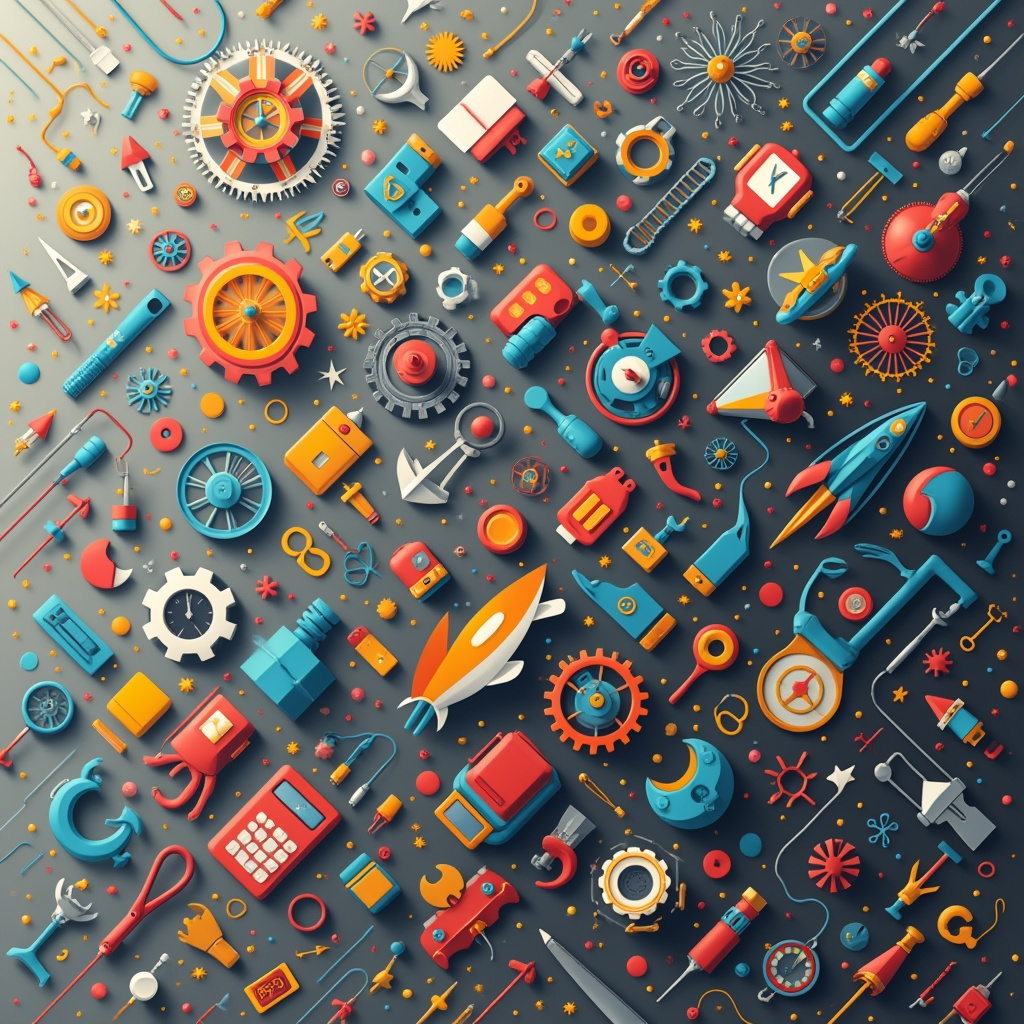
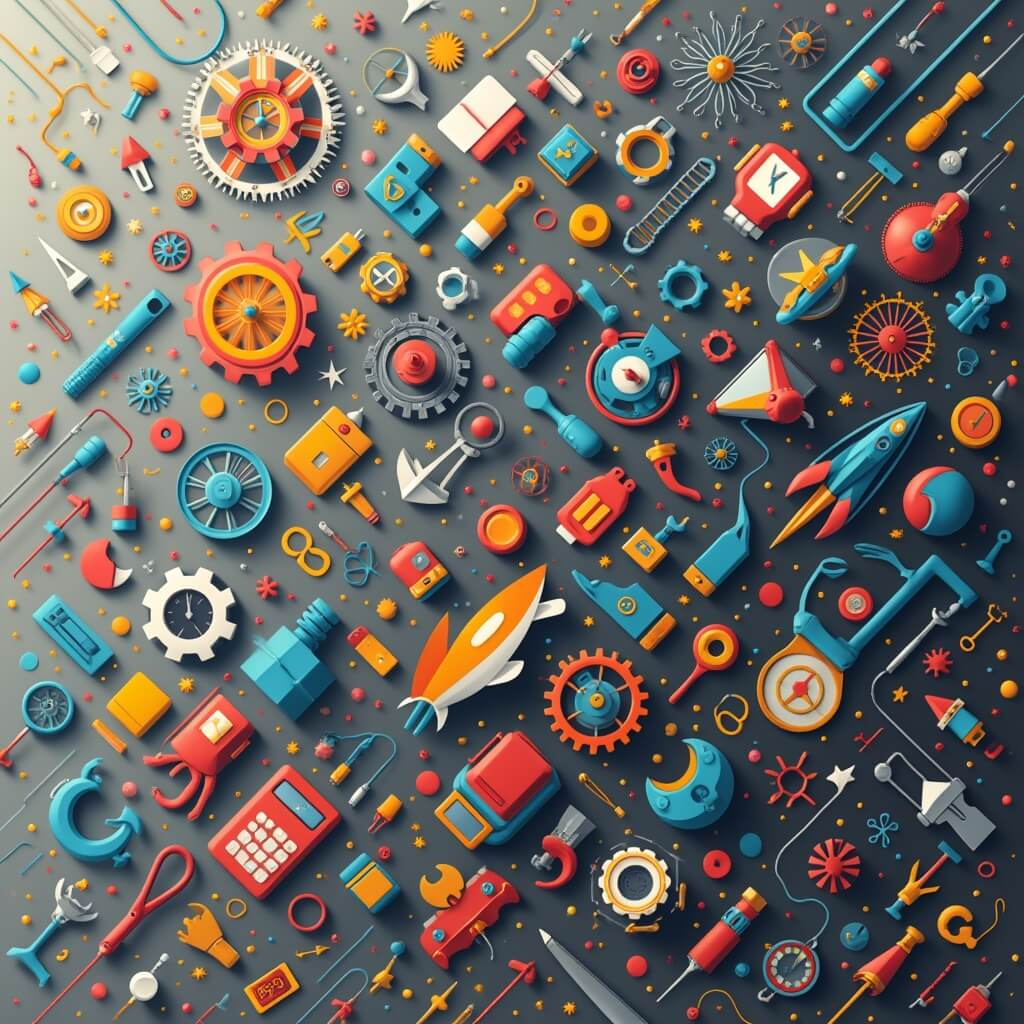
Ajustes images

diff --git a/success-cases.html b/success-cases.html
@@ -206,7 +206,7 @@
 
                     <div class="row featurette py-4 align-items-center mb-3">
                         <div class="col-md-5 order-md-2 text-center">
-                            <img src="./img/header-files.png" alt="Blockchain solutions for secure data transactions by CodeGenia" class="img-fluid">
+                            <img src="./img/header-files.jpg" alt="Blockchain solutions for secure data transactions by CodeGenia" class="img-fluid">
                         </div>
                         <div class="col-md-7 order-md-1">
                             <h3 class="featurette-heading fw-normal lh-1 my-3">Artificial Intelligence files transformation</h3>

diff --git a/es/casos-de-exito.html b/es/casos-de-exito.html
@@ -209,7 +209,7 @@
 
                     <div class="row featurette py-4 align-items-center mb-3">
                         <div class="col-md-5 order-md-2 text-center">
-                            <img src="./../img/header-files.png" alt="Blockchain solutions for secure data transactions by CodeGenia" class="img-fluid">
+                            <img src="./../img/header-files.jpg" alt="Blockchain solutions for secure data transactions by CodeGenia" class="img-fluid">
                         </div>
                         <div class="col-md-7 order-md-1">
                             <h3 class="featurette-heading fw-normal lh-1 my-3">

diff --git a/es/transformacion-ficheros-inteligencia-artificial.html b/es/transformacion-ficheros-inteligencia-artificial.html
@@ -123,7 +123,7 @@
         </div>
     </nav>
 
-    <div style="background: url('./../img/header-files.png') no-repeat center center fixed; 
+    <div style="background: url('./../img/header-files.jpg') no-repeat center center fixed; 
         width: 100vw; height: 100vh; object-fit: cover; background-size: cover; position: fixed; left: 0;
         right: 0; top: 0; bottom: 0; z-index: -1;"></div>
 

diff --git a/artificial-intelligence-files-transformation.html b/artificial-intelligence-files-transformation.html
@@ -123,7 +123,7 @@
         </div>
     </nav>
 
-    <div style="background: url('./img/header-files.png') no-repeat center center fixed; 
+    <div style="background: url('./img/header-files.jpg') no-repeat center center fixed; 
         width: 100vw; height: 100vh; object-fit: cover; background-size: cover; position: fixed; left: 0;
         right: 0; top: 0; bottom: 0; z-index: -1;"></div>
 
